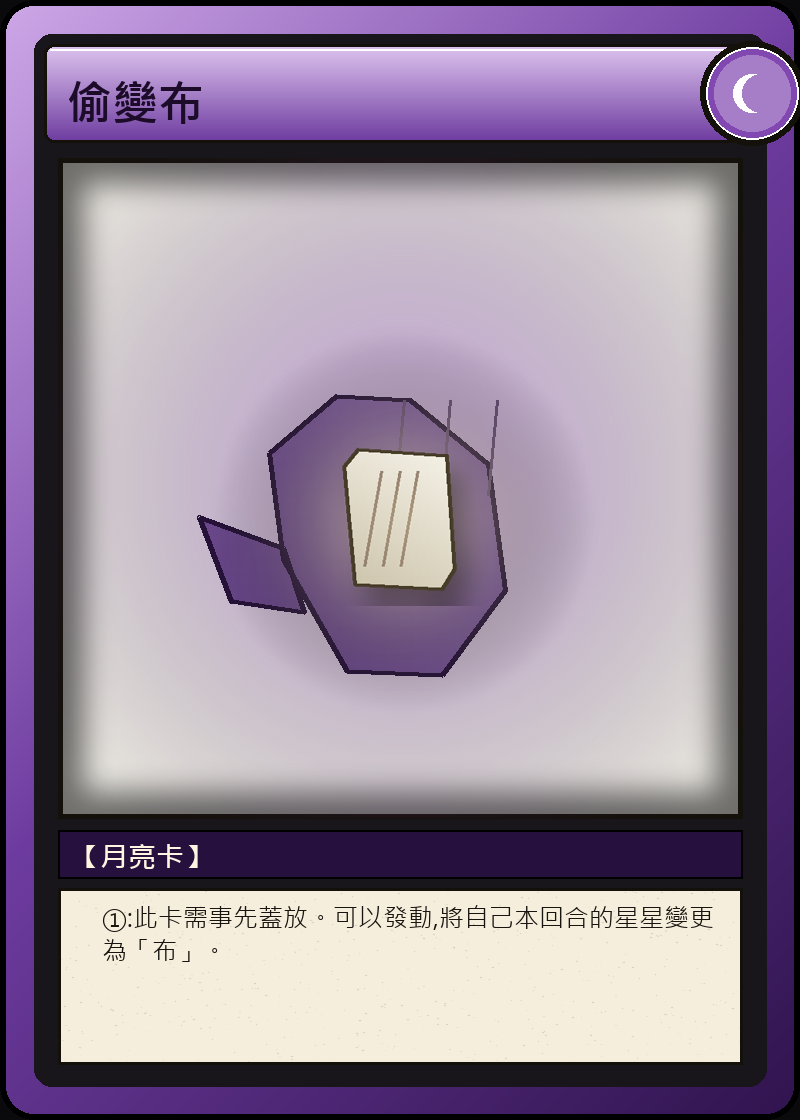
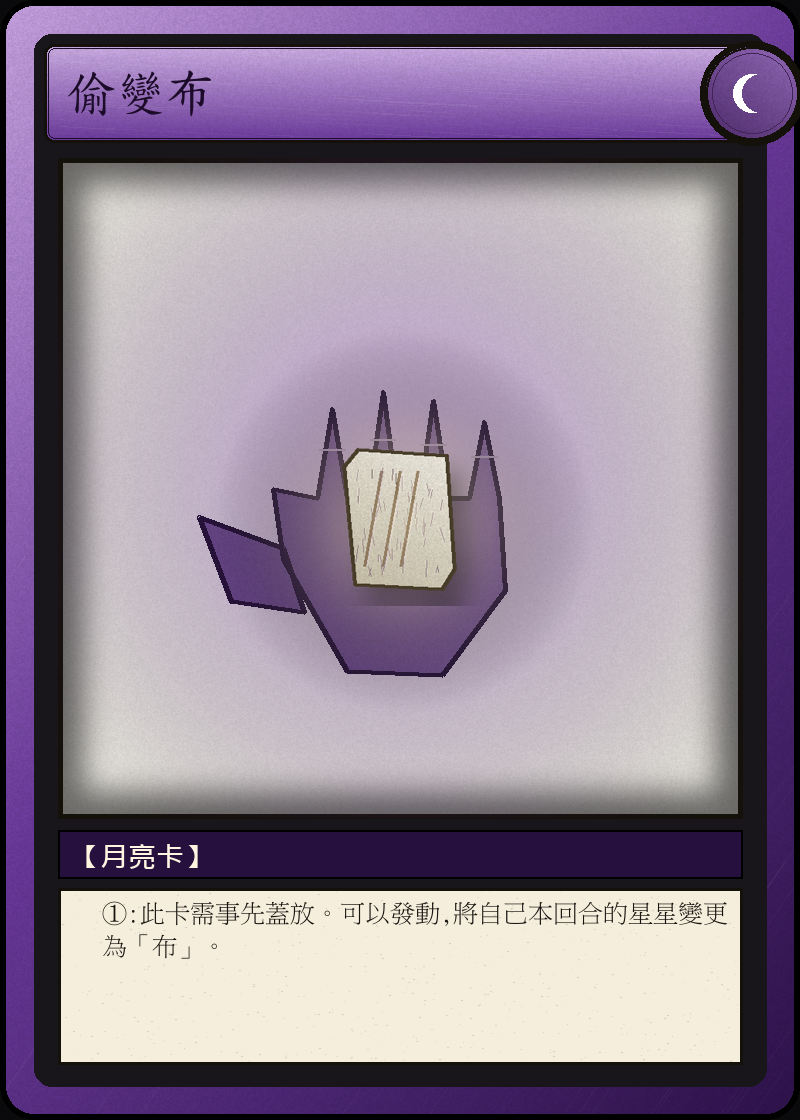
卡牌美術第二輪調整:降低玻璃光澤感、加強材質顆粒,卡圖與場地一併補上細節
- 邊框/名條/屬性圓標改成霧面拉絲金屬(雜訊顆粒 + 拉絲紋理),圓標從玻璃球
  改成刻花徽章,不再靠大片高光做立體感
- 卡背移除所有文字(含 Logo 字樣),月亮卡背維持新月圖示,星星/太陽卡背
  徽章補上雙色調刻面與材質處理
- 卡圖插畫全面加深:石頭改用模糊光影塊做出凹凸岩面 + 苔痕斑點,布加了紙纖維
  紋理與雙層折痕陰影,剪刀刀刃從細線改成有實際面積的鋼刃(含刃口高光)、
  握把改成實心刻面握環,偷變系列的手掌補上四指輪廓與指節線
- 卡名字體改標楷體、效果文字改細明體,取代原本偏 App UI 的黑體
- 新增場地(對戰面板)可平鋪材質 web/img/board_texture.png,菱格車縫壓紋
  用 background-blend-mode: multiply 疊在原本的面板底色上
- index.html 快取版本號一併遞增到 v=12(style.css 也納入版本追蹤)

diff --git a/web/index.html b/web/index.html
@@ -4,7 +4,7 @@
 <meta charset="UTF-8">
 <meta name="viewport" content="width=device-width, initial-scale=1.0, maximum-scale=1.0, viewport-fit=cover">
 <title>猜☆拳☆王</title>
-<link rel="stylesheet" href="style.css">
+<link rel="stylesheet" href="style.css?v=12">
 </head>
 <body>
 
@@ -110,11 +110,11 @@
 <script src="https://www.gstatic.com/firebasejs/10.12.2/firebase-auth-compat.js"></script>
 <script src="https://www.gstatic.com/firebasejs/10.12.2/firebase-database-compat.js"></script>
 <script src="firebase-config.js"></script>
-<!-- ?v= 是手動版本號,每次改動 rules.js/engine.js/net.js/app.js 就要遞增,
+<!-- ?v= 是手動版本號,每次改動 rules.js/engine.js/net.js/app.js/style.css 就要遞增,
      避免玩家瀏覽器快取到部署前的舊版程式碼、看不到最新的修正 -->
-<script src="rules.js?v=11"></script>
-<script src="engine.js?v=11"></script>
-<script src="net.js?v=11"></script>
-<script src="app.js?v=11"></script>
+<script src="rules.js?v=12"></script>
+<script src="engine.js?v=12"></script>
+<script src="net.js?v=12"></script>
+<script src="app.js?v=12"></script>
 </body>
 </html>

diff --git a/web/style.css b/web/style.css
@@ -137,11 +137,15 @@ button:hover { filter: brightness(1.1); }
 }
 
 .band {
-  background: var(--band-a);
+  background-color: var(--band-a);
+  background-image: url("img/board_texture.png");
+  background-repeat: repeat;
+  background-size: 96px 96px;
+  background-blend-mode: multiply;
   padding: 3px 8px;
   flex: 0 0 auto;
 }
-.band.bf { background: var(--band-mid); }
+.band.bf { background-color: var(--band-mid); }
 
 .band-name { font-weight: bold; font-size: 12px; margin-bottom: 2px; }
 
